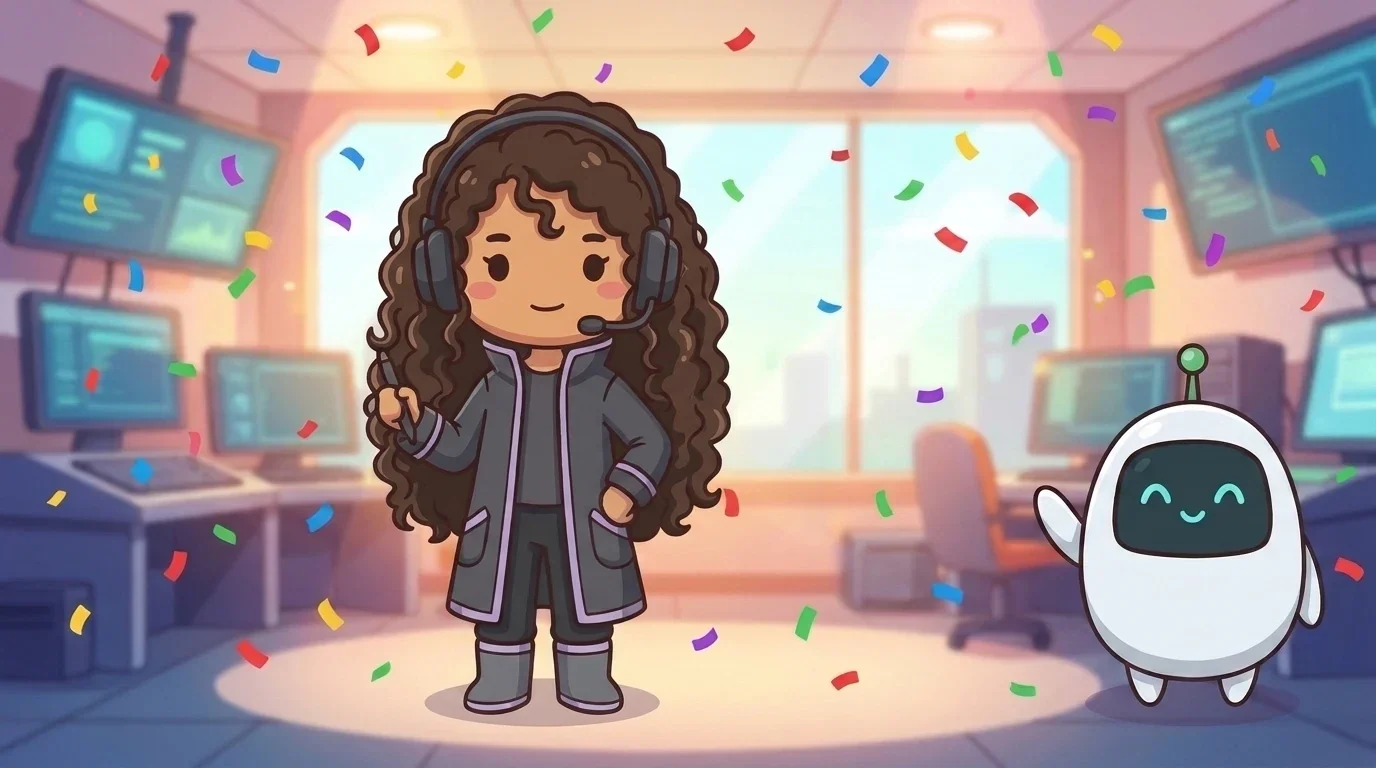
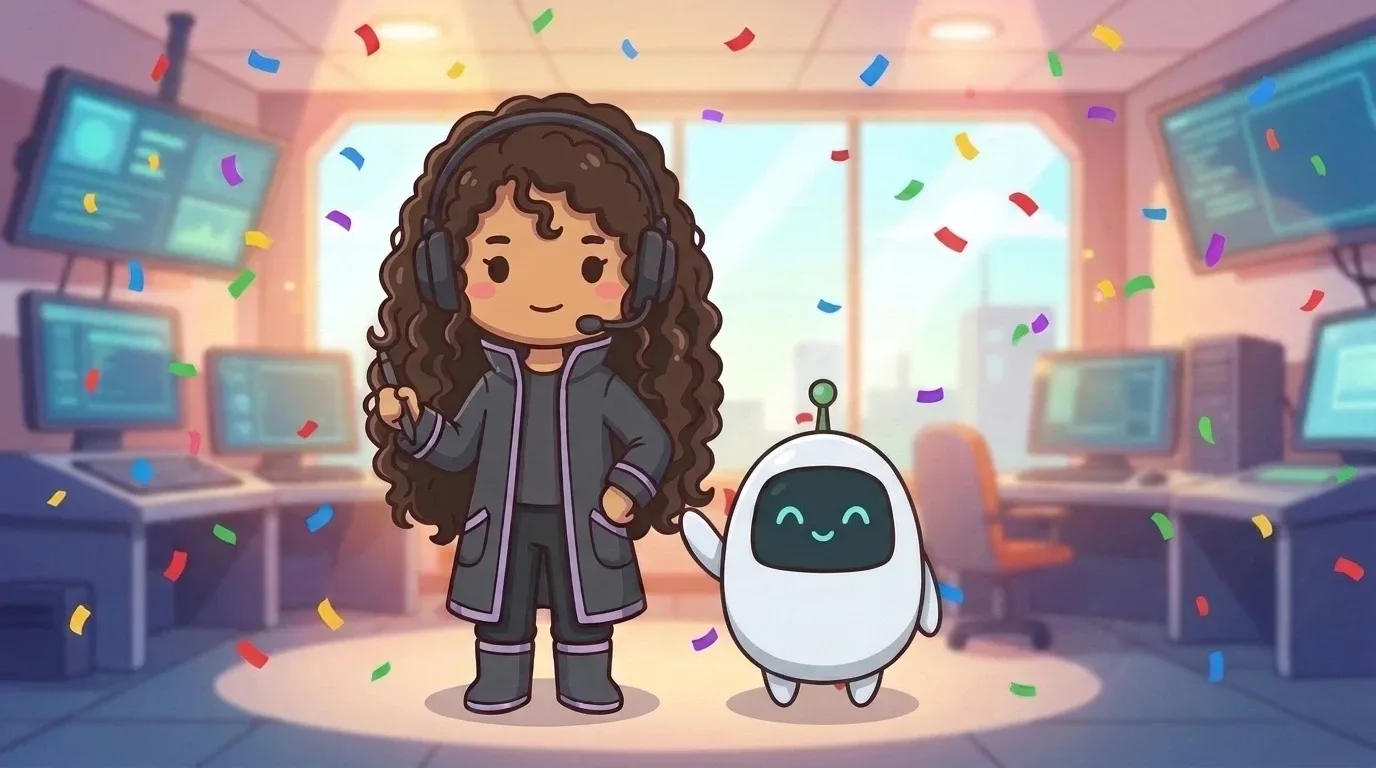
Promoções 4 e 7 com o robô ao lado da agente, fora do cartão
Claude-Session: https://claude.ai/code/session_01Bsh6pjGxG4aLmpNmfdfPHX

diff --git a/index.html b/index.html
@@ -18,8 +18,8 @@
     <meta name="apple-mobile-web-app-status-bar-style" content="black-translucent" />
     <meta name="apple-mobile-web-app-title" content="Algoritimando" />
     <!-- fontes guardadas no projeto: o jogo funciona sem internet -->
-    <link rel="stylesheet" href="fontes/fontes.css?v=202611260530" />
-    <link rel="stylesheet" href="style.css?v=202611260530" />
+    <link rel="stylesheet" href="fontes/fontes.css?v=202611260545" />
+    <link rel="stylesheet" href="style.css?v=202611260545" />
   </head>
   <body>
     <div id="stage">
@@ -919,23 +919,23 @@
          das cartas numa região, explicações de erro em outra -->
     <div class="sr leitor-avisos" aria-live="polite"></div>
     <div class="sr leitor-explicacao" aria-live="polite"></div>
-    <script src="js/versao.js?v=202611260530"></script>
-    <script src="js/motor.js?v=202611260530"></script>
-    <script src="js/comum.js?v=202611260530"></script>
-    <script src="js/situacoes.js?v=202611260530"></script>
-    <script src="js/em-progresso.js?v=202611260530"></script>
-    <script src="js/som.js?v=202611260530"></script>
-    <script src="js/progresso.js?v=202611260530"></script>
-    <script src="js/perfil.js?v=202611260530"></script>
-    <script src="js/arrasto.js?v=202611260530"></script>
-    <script src="js/conclusao.js?v=202611260530"></script>
-    <script src="js/montagem.js?v=202611260530"></script>
-    <script src="js/jogo.js?v=202611260530"></script>
+    <script src="js/versao.js?v=202611260545"></script>
+    <script src="js/motor.js?v=202611260545"></script>
+    <script src="js/comum.js?v=202611260545"></script>
+    <script src="js/situacoes.js?v=202611260545"></script>
+    <script src="js/em-progresso.js?v=202611260545"></script>
+    <script src="js/som.js?v=202611260545"></script>
+    <script src="js/progresso.js?v=202611260545"></script>
+    <script src="js/perfil.js?v=202611260545"></script>
+    <script src="js/arrasto.js?v=202611260545"></script>
+    <script src="js/conclusao.js?v=202611260545"></script>
+    <script src="js/montagem.js?v=202611260545"></script>
+    <script src="js/jogo.js?v=202611260545"></script>
     <!-- a cópia do certificado que vai para a impressora (final.js) -->
     <div id="impressao" aria-hidden="true"></div>
-    <script src="js/album.js?v=202611260530"></script>
-    <script src="js/final.js?v=202611260530"></script>
-    <script src="js/app.js?v=202611260530"></script>
-    <script src="js/pwa.js?v=202611260530"></script>
+    <script src="js/album.js?v=202611260545"></script>
+    <script src="js/final.js?v=202611260545"></script>
+    <script src="js/app.js?v=202611260545"></script>
+    <script src="js/pwa.js?v=202611260545"></script>
   </body>
 </html>

diff --git a/sw.js b/sw.js
@@ -2,7 +2,7 @@
    rode "node ferramentas/gerar-sw.js" depois de mudar o ?v= do index.html. */
 'use strict';
 
-const VERSAO = '202611260530';
+const VERSAO = '202611260545';
 const CACHE = 'algoritimando-' + VERSAO;
 const ARQUIVOS = [
   "./",
@@ -18,7 +18,7 @@ const ARQUIVOS = [
   "audio/efeitos/selo.mp3",
   "audio/efeitos/vitoria.mp3",
   "audio/musica-tema.mp3",
-  "fontes/fontes.css?v=202611260530",
+  "fontes/fontes.css?v=202611260545",
   "fontes/fredoka.woff2",
   "fontes/nunito.woff2",
   "img/agente-afro-menina.webp",
@@ -287,24 +287,24 @@ const ARQUIVOS = [
   "img/win7.webp",
   "img/win8.webp",
   "index.html",
-  "js/album.js?v=202611260530",
-  "js/app.js?v=202611260530",
-  "js/arrasto.js?v=202611260530",
-  "js/comum.js?v=202611260530",
-  "js/conclusao.js?v=202611260530",
-  "js/em-progresso.js?v=202611260530",
-  "js/final.js?v=202611260530",
-  "js/jogo.js?v=202611260530",
-  "js/montagem.js?v=202611260530",
-  "js/motor.js?v=202611260530",
-  "js/perfil.js?v=202611260530",
-  "js/progresso.js?v=202611260530",
-  "js/pwa.js?v=202611260530",
-  "js/situacoes.js?v=202611260530",
-  "js/som.js?v=202611260530",
-  "js/versao.js?v=202611260530",
+  "js/album.js?v=202611260545",
+  "js/app.js?v=202611260545",
+  "js/arrasto.js?v=202611260545",
+  "js/comum.js?v=202611260545",
+  "js/conclusao.js?v=202611260545",
+  "js/em-progresso.js?v=202611260545",
+  "js/final.js?v=202611260545",
+  "js/jogo.js?v=202611260545",
+  "js/montagem.js?v=202611260545",
+  "js/motor.js?v=202611260545",
+  "js/perfil.js?v=202611260545",
+  "js/progresso.js?v=202611260545",
+  "js/pwa.js?v=202611260545",
+  "js/situacoes.js?v=202611260545",
+  "js/som.js?v=202611260545",
+  "js/versao.js?v=202611260545",
   "manifest.webmanifest",
-  "style.css?v=202611260530"
+  "style.css?v=202611260545"
 ];
 
 // instala: baixa tudo de novo (sem usar o cache do navegador)

diff --git a/js/final.js b/js/final.js
@@ -36,7 +36,7 @@
   const proximo = $('#bFimNext');
 
   // ?v= faz o navegador buscar a imagem nova quando ela muda
-  const V = '?v=202611260530';
+  const V = '?v=202611260545';
 
   /* Os quadros. "reserva": imagem do jogo usada enquanto a do
      quadro não existe. "festa": confete e música de vitória. */

diff --git a/antigos/LEIA-ME.md b/antigos/LEIA-ME.md
@@ -12,6 +12,7 @@ Não entram aqui as partes desativadas **por enquanto** (Área do professor/edit
 | `img/av2.webp` a `img/av5.webp`, `img/agente-afro-menina.webp`, `img/agente-afro-menino.webp`, `img/agente-latina.webp`, `img/agente-latino.webp` | agentes 2 a 5 no desenho antigo (olhos grandes, cerca de 2,5 cabeças) | redesenho no estilo C (traço original refinado) | 26/11/2026 |
 | `img/licoes/mochila-1.webp`, `mochila-3.webp`, `mochila-4.webp` e `img/licoes/comparativas/mochila-1.webp` | lições da mochila com a menina antiga (uniforme cinza) | mesmas lições com a menina da Escola no estilo C | 26/11/2026 |
 | `img/fim2.webp`, `img/fim4.webp`, `img/fim5.webp` | cenas finais com a menina da Escola de uniforme cinza | mesmas cenas, com o uniforme dela pintado de lilás como no estilo C | 26/11/2026 |
+| `img/promo4-estilo-c-robo-atras.webp`, `img/promo10-robo-atras.webp` | primeiras versões das promoções 4 e 7, com o robô escondido atrás do cartão | `img/promo4.webp` e `img/promo10.webp` com o robô ao lado da agente | 26/11/2026 |
 | `img/agente-costas.webp` | agente de costas, corpo inteiro | não é usado em nenhuma tela (o botão secreto usa `av-equipe.webp`) | 04/11/2026 |
 | `img/promo0.webp` a `img/promo5.webp` | cenas de promoção dos agentes 0 a 5 com o robô ovo e o casaco antigo | nova cena no estilo C, com o Robô-guia branco e o uniforme sem cinto | 26/11/2026 |
 | `img/cliente2.webp`, `img/who3.webp` | menina da Escola (mochila) no traço de anime | redesenho no estilo C (traço original refinado) | 26/11/2026 |
